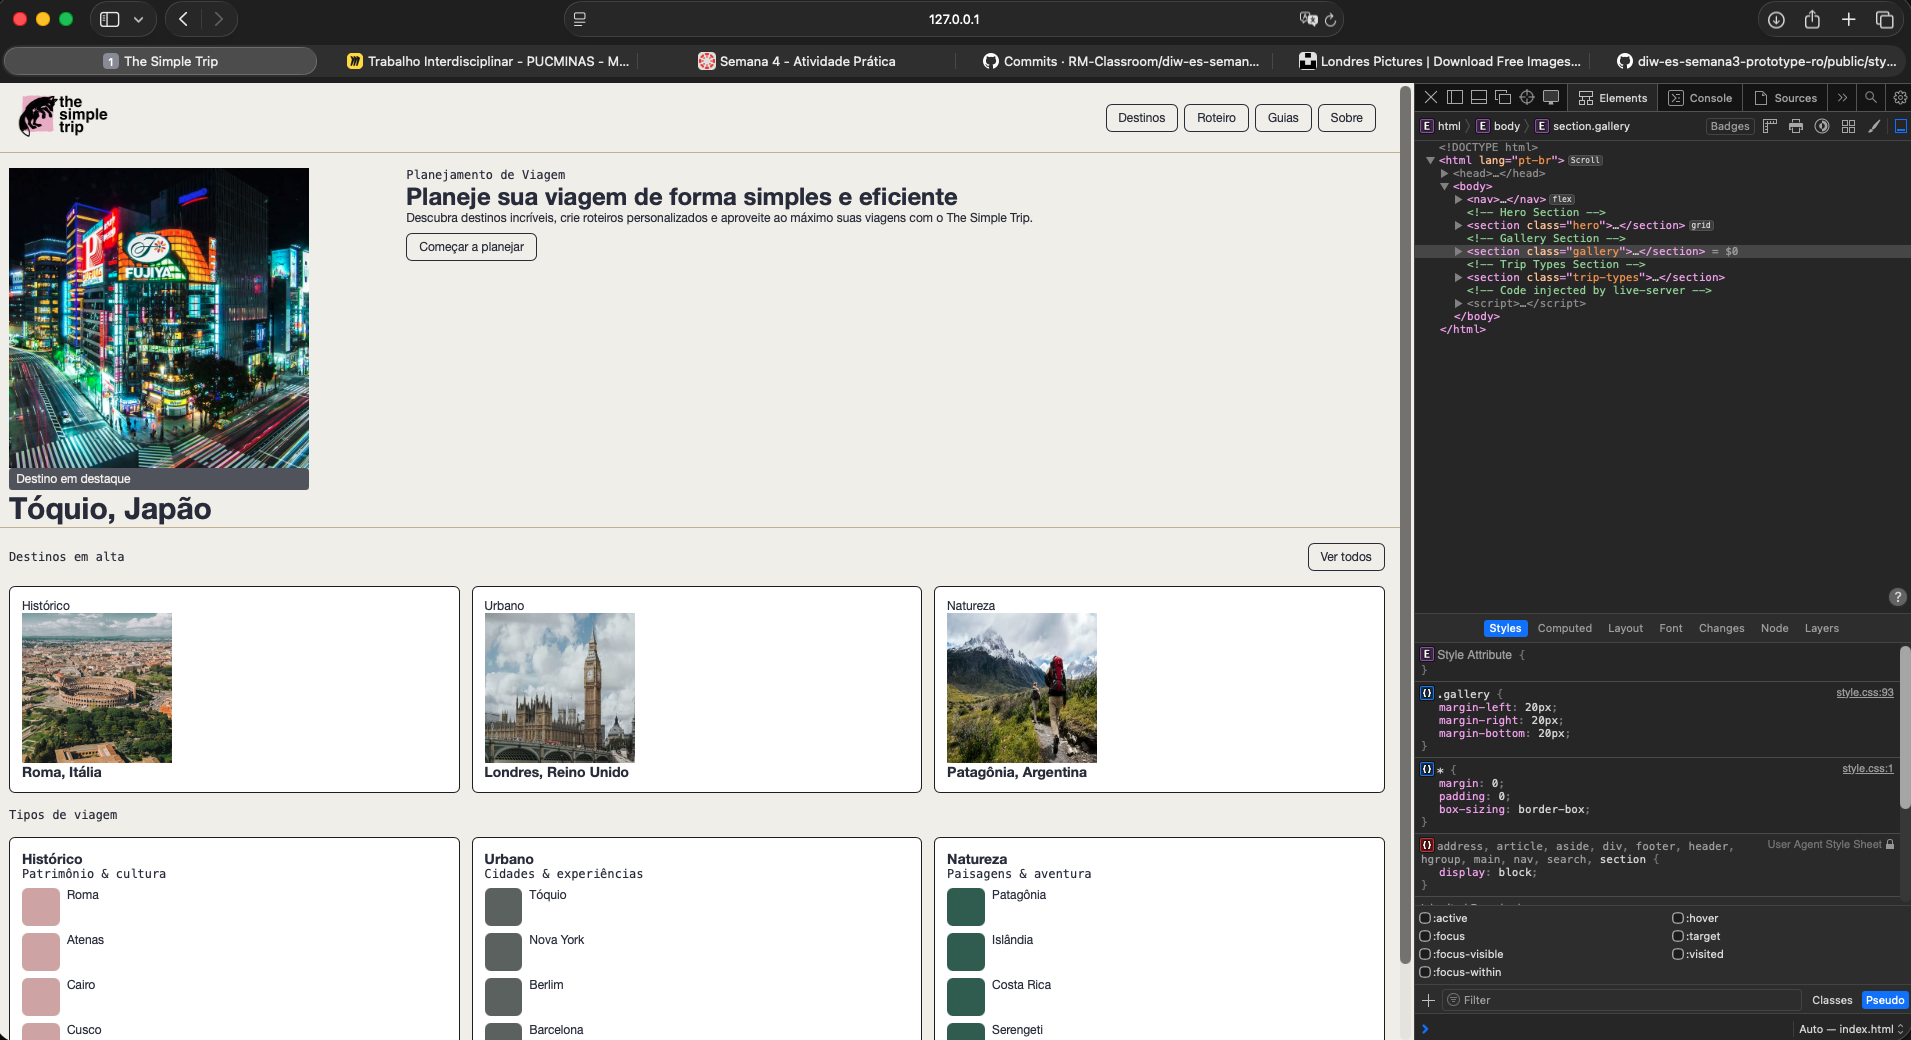
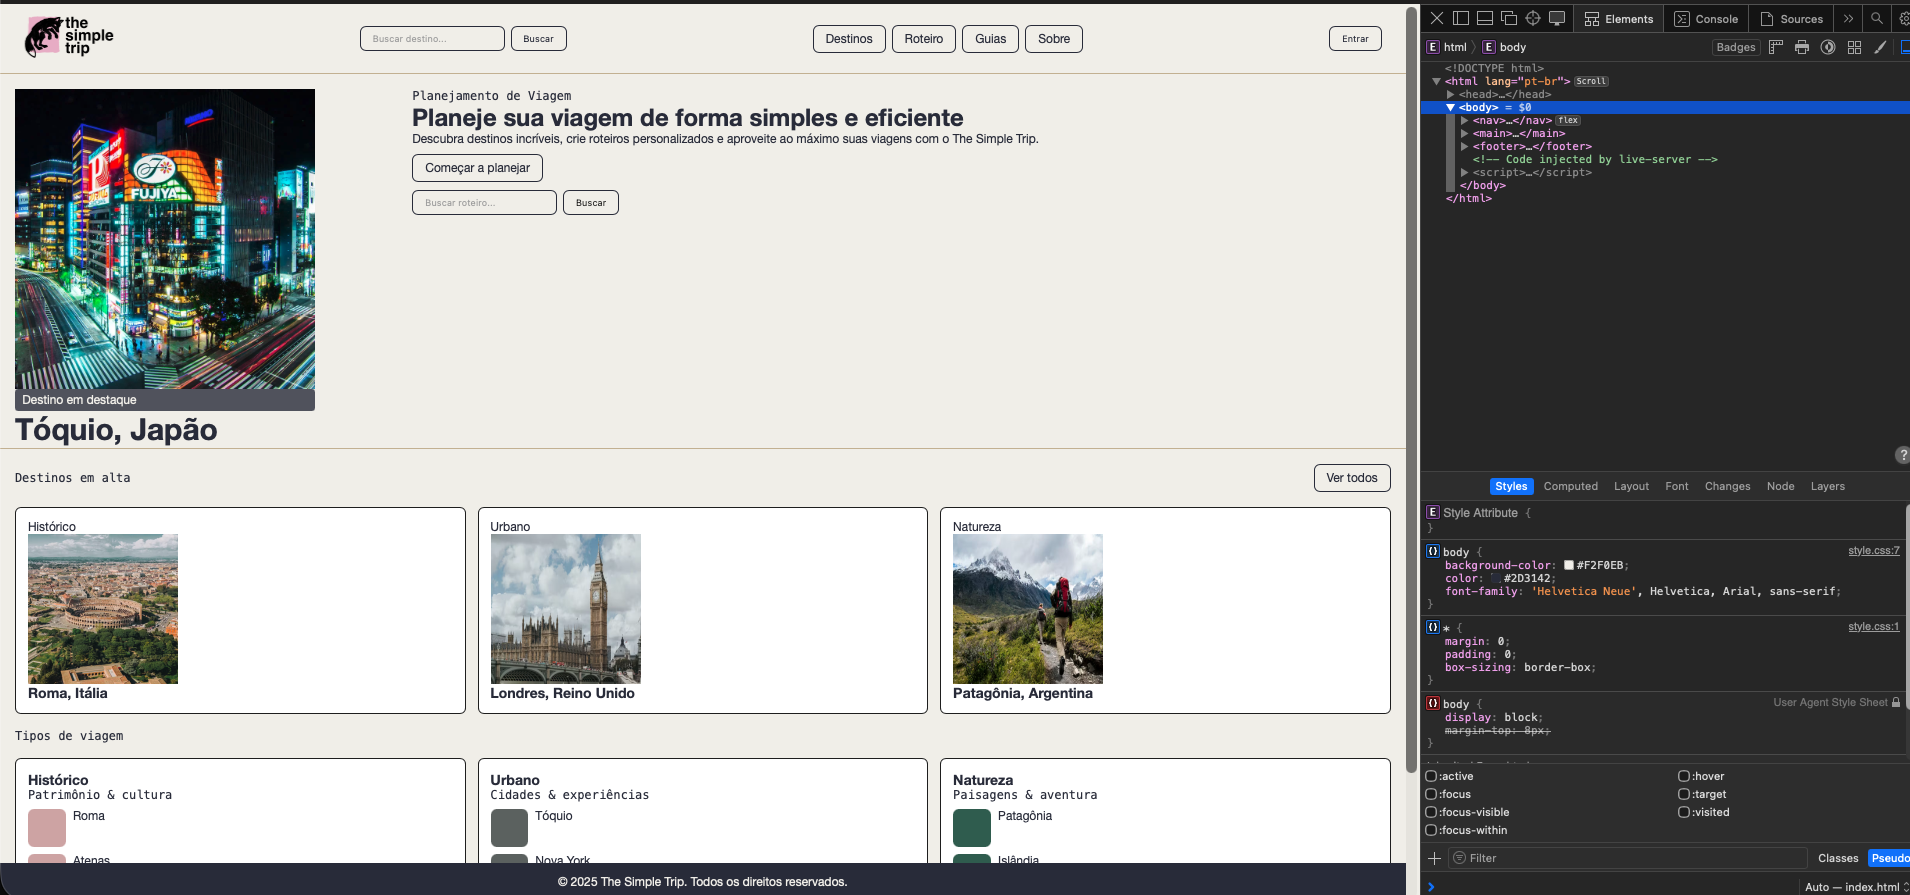
Ajustes gerais e inclusao de features indicados nos parametros da entrega - Rodrigo Lage

diff --git a/public/index.html b/public/index.html
@@ -11,16 +11,26 @@
         <div class="logo">
             <img src="logo.svg" class="logo-image">
         </div>
+
+        <div class="search">
+            <input type="text" placeholder="Buscar destino...">
+            <button>Buscar</button>
+        </div>
+
         <ul>
             <li><a href="#">Destinos</a></li>
             <li><a href="#">Roteiro</a></li>
             <li><a href="#">Guias</a></li>
             <li><a href="#">Sobre</a></li>
         </ul>
+
+        <button class="login">Entrar</button>
     </nav>
 
+<main>
     <!-- Hero Section -->
-    <section class="hero">
+    <article>
+        <section class="hero">
         <div class="hero-image-container">
             <img src="image_1.png" class="hero-image">
             <span class="hero-label">Destino em destaque</span>
@@ -32,95 +42,112 @@
             <h1>Planeje sua viagem de forma simples e eficiente</h1>
             <p>Descubra destinos incríveis, crie roteiros personalizados e aproveite ao máximo suas viagens com o The Simple Trip.</p>
             <a href="#" class="button">Começar a planejar</a>
+            <div class="hero-search">
+            <input type="text" placeholder="Buscar roteiro...">
+            <button>Buscar</button>
+            </div>
         </div>
-    </section>
+        </section>
+    </article>
+
 
     <!-- Gallery Section -->
-    <section class="gallery">
-        <div class="section-header">
-            <span class="section-label">Destinos em alta</span>
-            <a href="#">Ver todos</a>
-        </div>
+    <article>
+        <section class="gallery">
+            <div class="section-header">
+                <span class="section-label">Destinos em alta</span>
+                <a href="#">Ver todos</a>
+            </div>
 
-        <div class="gallery-grid">
-            <div class="gallery-card">
-                <span class="card-label">Histórico</span>
-                <img src="image_g1.png" class="gallery-image">
-                <h3>Roma, Itália</h3>
+            <div class="gallery-grid">
+                <div class="gallery-card">
+                    <span class="card-label">Histórico</span>
+                    <img src="image_g1.png" class="gallery-image">
+                    <h3>Roma, Itália</h3>
+                </div>
+                <div class="gallery-card">
+                    <span class="card-label">Urbano</span>
+                    <img src="image_g2.png" class="gallery-image">
+                    <h3>Londres, Reino Unido</h3>
+                </div>
+                <div class="gallery-card">
+                    <span class="card-label">Natureza</span>
+                    <img src="image_g3.png" class="gallery-image">
+                    <h3>Patagônia, Argentina</h3>
+                </div>
             </div>
-            <div class="gallery-card">
-                <span class="card-label">Urbano</span>
-                <img src="image_g2.png" class="gallery-image">
-                <h3>Londres, Reino Unido</h3>
-            </div>
-            <div class="gallery-card">
-                <span class="card-label">Natureza</span>
-                <img src="image_g3.png" class="gallery-image">
-                <h3>Patagônia, Argentina</h3>
-            </div>
-        </div>
-    </section>
+        </section>
+    </article>
 
     <!-- Trip Types Section -->
-    <section class="trip-types">
+    </article>
+        <section class="trip-types">
 
-        <span class="section-label">Tipos de viagem</span>
+            <span class="section-label">Tipos de viagem</span>
 
-        <div class="trip-grid">
+            <div class="trip-grid">
 
-            <div class="trip-column">
-                <div class="column-header">
-                <div>
-                    <h3>Histórico</h3>
-                    <span class="section-label">Patrimônio & cultura</span>
+                <div class="trip-column">
+                    <div class="column-header">
+                    <div>
+                        <h3>Histórico</h3>
+                        <span class="section-label">Patrimônio & cultura</span>
+                    </div>
+                    </div>
+                    <ul>
+                    <div class="column-element"><div class="column-icon-historical"></div><li>Roma</li></div>
+                    <div class="column-element"><div class="column-icon-historical"></div><li>Atenas</li></div>
+                    <div class="column-element"><div class="column-icon-historical"></div><li>Cairo</li></div>
+                    <div class="column-element"><div class="column-icon-historical"></div><li>Cusco</li></div>
+                    <div class="column-element"><div class="column-icon-historical"></div><li>Istambul</li></div>
+                    </ul>
                 </div>
+
+                <div class="trip-column">
+                    <div class="column-header">
+                    <div class="column-icon"></div>
+                    <div>
+                        <h3>Urbano</h3>
+                        <span class="section-label">Cidades & experiências</span>
+                    </div>
+                    </div>
+                    <ul>
+                    <div class="column-element"><div class="column-icon-urban"></div><li>Tóquio</li></div>
+                    <div class="column-element"><div class="column-icon-urban"></div><li>Nova York</li></div>
+                    <div class="column-element"><div class="column-icon-urban"></div><li>Berlim</li></div>
+                    <div class="column-element"><div class="column-icon-urban"></div><li>Barcelona</li></div>
+                    <div class="column-element"><div class="column-icon-urban"></div><li>Cidade do México</li></div>
+                    </ul>
                 </div>
-                <ul>
-                <div class="column-element"><div class="column-icon-historical"></div><li>Roma</li></div>
-                <div class="column-element"><div class="column-icon-historical"></div><li>Atenas</li></div>
-                <div class="column-element"><div class="column-icon-historical"></div><li>Cairo</li></div>
-                <div class="column-element"><div class="column-icon-historical"></div><li>Cusco</li></div>
-                <div class="column-element"><div class="column-icon-historical"></div><li>Istambul</li></div>
-                </ul>
+
+                <div class="trip-column">
+                    <div class="column-header">
+                    <div class="column-icon"></div>
+                    <div>
+                        <h3>Natureza</h3>
+                        <span class="section-label">Paisagens & aventura</span>
+                    </div>
+                    </div>
+                    <ul>
+                    <div class="column-element"><div class="column-icon-nature"></div><li>Patagônia</li></div>
+                    <div class="column-element"><div class="column-icon-nature"></div><li>Islândia</li></div>
+                    <div class="column-element"><div class="column-icon-nature"></div><li>Costa Rica</li></div>
+                    <div class="column-element"><div class="column-icon-nature"></div><li>Serengeti</li></div>
+                    <div class="column-element"><div class="column-icon-nature"></div><li>Nova Zelândia</li></div>
+                    </ul>
+                </div>
+
             </div>
 
-            <div class="trip-column">
-                <div class="column-header">
-                <div class="column-icon"></div>
-                <div>
-                    <h3>Urbano</h3>
-                    <span class="section-label">Cidades & experiências</span>
-                </div>
-                </div>
-                <ul>
-                <div class="column-element"><div class="column-icon-urban"></div><li>Tóquio</li></div>
-                <div class="column-element"><div class="column-icon-urban"></div><li>Nova York</li></div>
-                <div class="column-element"><div class="column-icon-urban"></div><li>Berlim</li></div>
-                <div class="column-element"><div class="column-icon-urban"></div><li>Barcelona</li></div>
-                <div class="column-element"><div class="column-icon-urban"></div><li>Cidade do México</li></div>
-                </ul>
-            </div>
+        </section>
+    </article>
+</main>
 
-            <div class="trip-column">
-                <div class="column-header">
-                <div class="column-icon"></div>
-                <div>
-                    <h3>Natureza</h3>
-                    <span class="section-label">Paisagens & aventura</span>
-                </div>
-                </div>
-                <ul>
-                <div class="column-element"><div class="column-icon-nature"></div><li>Patagônia</li></div>
-                <div class="column-element"><div class="column-icon-nature"></div><li>Islândia</li></div>
-                <div class="column-element"><div class="column-icon-nature"></div><li>Costa Rica</li></div>
-                <div class="column-element"><div class="column-icon-nature"></div><li>Serengeti</li></div>
-                <div class="column-element"><div class="column-icon-nature"></div><li>Nova Zelândia</li></div>
-                </ul>
-            </div>
-
-        </div>
-
+<footer>
+  <section class="footer-content">
+    <p>© 2025 The Simple Trip. Todos os direitos reservados.</p>
   </section>
+</footer>
 
 </body>
 </html>

diff --git a/public/style.css b/public/style.css
@@ -18,6 +18,10 @@ nav {
   border-bottom: 1px solid #C9B99A;
 }
 
+.logo {
+  position: relative;
+}
+
 .logo-image {
   width: 120px;
 }
@@ -35,6 +39,37 @@ nav a{
   border: 1px solid #2D3142;
   border-radius: 8px;
   color: #2D3142;
+}
+
+.search {
+  display: flex;
+  gap: 8px;
+}
+
+.search input {
+  padding: 8px 16px;
+  border: 1px solid #2D3142;
+  border-radius: 8px;
+  background-color: transparent;
+  color: #2D3142;
+}
+
+.search button {
+  padding: 8px 16px;
+  border: 1px solid #2D3142;
+  border-radius: 8px;
+  background-color: transparent;
+  color: #2D3142;
+  cursor: pointer;
+}
+
+.login {
+  padding: 8px 16px;
+  border: 1px solid #2D3142;
+  border-radius: 8px;
+  background-color: transparent;
+  color: #2D3142;
+  cursor: pointer;
 }
 
 /* Hero Section */
@@ -86,6 +121,21 @@ nav a{
   border: 1px solid #2D3142;
   border-radius: 8px;
   color: #2D3142;
+}
+
+.hero-search {
+  display: flex;
+  gap: 8px;
+  margin-top: 20px;
+}
+
+.hero-search input,
+.hero-search button {
+  padding: 8px 16px;
+  border: 1px solid #2D3142;
+  border-radius: 8px;
+  background-color: transparent;
+  cursor: pointer;
 }
 
 /* Gallery Section */
@@ -194,4 +244,17 @@ margin-bottom: 20px;
     border: 1px solid hsl(0, 0%, 13%);
     border-radius: 8px;
     padding: 1rem;
+}
+
+/* Footer */
+footer{
+  margin-top: 20px;
+  background-color: #2D3142;
+  color: #F2F0EB;
+  text-align: center;
+  padding: 1rem;
+  position: fixed;
+  bottom: 0;
+  left: 0;
+  right: 0;
 }

diff --git a/README.md b/README.md
@@ -27,3 +27,5 @@ The Simple Trip (nome do site_ é uma ferramenta de planejamento de viagens, con
 ## Print da home-page criada
 
 <<  COLOQUE A IMAGEM AQUI >>
+
+![Homepage_PaginaWeb](images/homepage-image.png)
